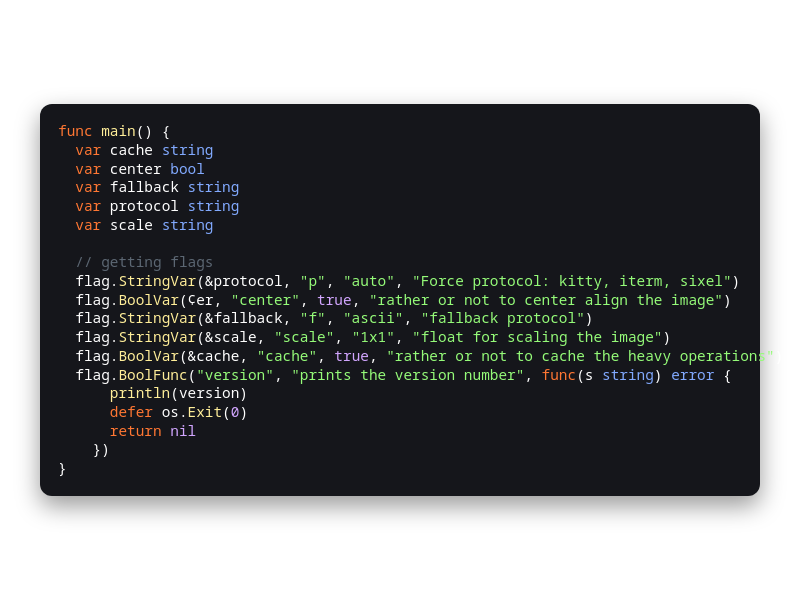
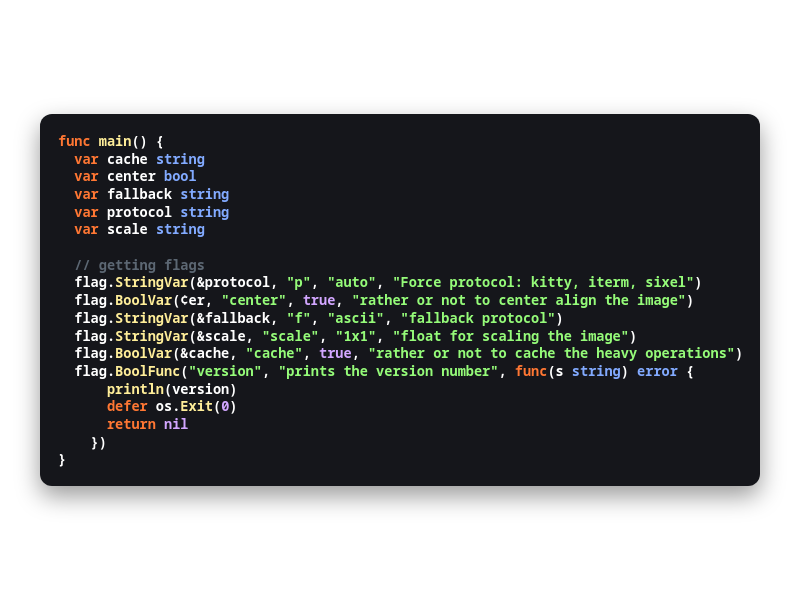
feat: adding new selection colors for the new themes

Changed region(s): [[0.0938, 0.42, 0.9688, 0.75], [0.0312, 0.15, 0.9688, 0.39], [0.0312, 0.81, 0.9688, 0.87]]

diff --git a/dogs/autumn/code_preview.html b/dogs/autumn/code_preview.html
@@ -15,7 +15,7 @@
       --type: #fc4c4c;
       --constant: #FF6B9D;
       --cursor: #ffdb29;
-      --selection: #264F78;
+      --selection: #602c3d;
     }
 
     * {
@@ -25,7 +25,8 @@
     html, body {
       background-color: transparent;
       color: var(--fg);
-      font-family: 'CaskaydiaCoveNerdFont', monospace;
+      font-family: 'CaskaydiaCove Nerd Font', monospace;
+      font-weight: 600;
       margin: 0;
       padding: min(2vw, 2vh);
       display: flex;
@@ -47,7 +48,7 @@
 
     pre {
       margin: 0;
-      font-size: 1.8vw;
+      font-size: 1.7vw;
       line-height: 1.3;
       white-space: pre;
     }

diff --git a/dogs/spring/code_preview.html b/dogs/spring/code_preview.html
@@ -15,7 +15,7 @@
       --type: #66E6FF;
       --constant: #D8A5FF;
       --cursor: #ffdb29;
-      --selection: #264F78;
+      --selection: #2e3940;
     }
 
     * {
@@ -25,7 +25,8 @@
     html, body {
       background-color: transparent;
       color: var(--fg);
-      font-family: 'CaskaydiaCoveNerdFont', monospace;
+      font-family: 'CaskaydiaCove Nerd Font', monospace;
+      font-weight: 600;
       margin: 0;
       padding: min(2vw, 2vh);
       display: flex;
@@ -47,7 +48,7 @@
 
     pre {
       margin: 0;
-      font-size: 1.8vw;
+      font-size: 1.7vw;
       line-height: 1.3;
       white-space: pre;
     }

diff --git a/dogs/dark/code_preview.html b/dogs/dark/code_preview.html
@@ -25,7 +25,8 @@
     html, body {
       background-color: transparent;
       color: var(--fg);
-      font-family: 'CaskaydiaCoveNerdFont', monospace;
+      font-family: 'CaskaydiaCove Nerd Font', monospace;
+      font-weight: 600;
       margin: 0;
       padding: min(2vw, 2vh);
       display: flex;
@@ -47,7 +48,7 @@
 
     pre {
       margin: 0;
-      font-size: 1.8vw;
+      font-size: 1.7vw;
       line-height: 1.3;
       white-space: pre;
     }

diff --git a/dogs/light/code_preview.html b/dogs/light/code_preview.html
@@ -25,7 +25,8 @@
     html, body {
       background-color: transparent;
       color: var(--fg);
-      font-family: 'CaskaydiaCoveNerdFont', monospace;
+      font-family: 'CaskaydiaCove Nerd Font', monospace;
+      font-weight: 600;
       margin: 0;
       padding: min(2vw, 2vh);
       display: flex;
@@ -47,7 +48,7 @@
 
     pre {
       margin: 0;
-      font-size: 1.8vw;
+      font-size: 1.7vw;
       line-height: 1.3;
       white-space: pre;
     }

diff --git a/themes/autumn/README.md b/themes/autumn/README.md
@@ -43,6 +43,6 @@
 |--------------|-----------------|-|
 | Line Number  | `#25282E` | ![line_nr](../../dogs/autumn/line_nr.png) |
 | Cursor Line  | `#1E1F24` | ![cursor_line](../../dogs/autumn/cursor_line.png) |
-| Selection    | `#264F78` | ![selection](../../dogs/autumn/selection.png) |
+| Selection    | `#602c3d` | ![selection](../../dogs/autumn/selection.png) |
 | On_Selection | `#ffffff` | ![on_selection](../../dogs/autumn/on_selection.png) |
 | Cursor       | `#ffdb29` | ![cursor](../../dogs/autumn/cursor.png) |

diff --git a/themes/spring/README.md b/themes/spring/README.md
@@ -43,6 +43,6 @@
 |--------------|-----------------|-|
 | Line Number  | `#25282E` | ![line_nr](../../dogs/spring/line_nr.png) |
 | Cursor Line  | `#1E1F24` | ![cursor_line](../../dogs/spring/cursor_line.png) |
-| Selection    | `#264F78` | ![selection](../../dogs/spring/selection.png) |
+| Selection    | `#2e3940` | ![selection](../../dogs/spring/selection.png) |
 | On_Selection | `#ffffff` | ![on_selection](../../dogs/spring/on_selection.png) |
 | Cursor       | `#ffdb29` | ![cursor](../../dogs/spring/cursor.png) |
